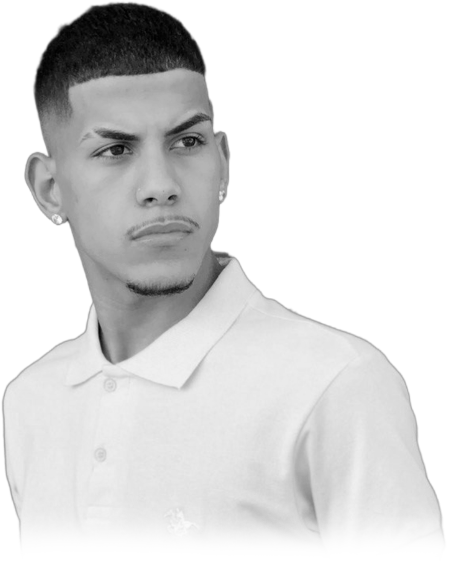
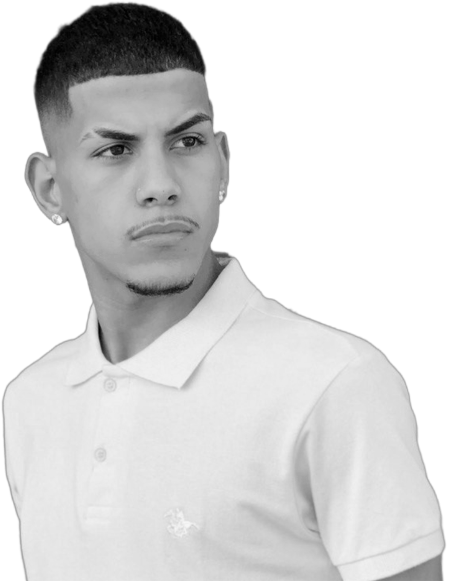
Modificado as imagens
Responsividade a cada imagem do projeto

Changed region(s): [[0.031, 0.8675, 0.9912, 1.0]]

diff --git a/estilos/large-screen.css b/estilos/large-screen.css
@@ -3,52 +3,48 @@
 @import url('https://fonts.googleapis.com/css2?family=Sometype+Mono:wght@400;500;700&display=swap');
 @import url('https://fonts.googleapis.com/css2?family=MuseoModerno:wght@300;400;500;700&display=swap');
 
-:root{ 
+:root {
     --font01: 'MuseoModerno', sans-serif;
     --font02: 'Sometype Mono', monospace;
-
+    
     --bg01: #191919;
     --bg02: #3f3f3f;
+    --bg03: #424242;
+    --bg04: #6200EE;
+
+    --tt01: #F5F5F5;
+    --tt02: #9E9E9E;
+    --tt03: #6200EE;
 }
 
-*{
+* {
     padding: 0px;
     margin: 0px;
     font-size: 62.5%;
 }
-a{
+
+a {
     text-decoration: none;
 }
 
-body{
+body {
     background-color: var(--bg01);
     color: white;
     font-family: system-ui, -apple-system, BlinkMacSystemFont, 'Segoe UI', Roboto, Oxygen, Ubuntu, Cantarell, 'Open Sans', 'Helvetica Neue', sans-serif
 }
-header{ 
+
+header {
     font-size: 4rem;
 }
 
-header > h1.about{
-    font-family: var(--font02);
-    font-weight: bold;
-    font-size: 3.3rem;
-
-    padding: 0rem 2rem;
-}
-header > h2.about{
-    padding: 0rem 2rem;
+header#headerDiv {
+    position: fixed;
 }
 
 nav {
+    font-size: 2.7rem;
+    padding: .5rem .5rem 3rem .5rem;
     text-align: end;
-    font-size: 2.5rem;
-    padding: .5rem .5rem 2rem .5rem;
-
-    position: relative;
-    top: 1rem;
-    left: 0;
-    right: 0;
 }
 
 nav>a {
@@ -61,24 +57,25 @@ nav>a {
     padding: .9rem 2rem;
     margin-right: 5rem;
     border-radius: 2rem;
+}
 
+div#principalContainer{
+    position: absolute;
+    top: 10rem;
+}
+
+div#bgPhoto01 {
+    display: none;
 }
 
 main#groupBox {
-    
     position: relative;
-
-    left: 3rem;
-    top: 1rem;
 
     max-width: 30rem;
     max-height: 30rem;
 
-    padding: 1.5rem;
-
     font-size: 4rem;
 }
-
 
 main>fieldset {
     border-radius: 1.5rem;
@@ -110,18 +107,14 @@ main>fieldset>section>p {
 
 }
 
-section p {
-    text-align: justify;
-}
+div#bgPhoto02{
 
+    background: var(--bg01) url(../imagens/profile-preto-branco-fundo.png) no-repeat;
+    background-attachment: fixed;
+    background-position: top right 15%;
+    
+    height: 100vh;
+    width: 100%;
 
-footer {
-    background-color: #ebebeb;
-    color: black;
-
-    padding: .6rem;
-
-    font-size: 1.5rem;
-
-
+    transition: background-image 0.3s ease;
 }

diff --git a/estilos/tablet.css b/estilos/tablet.css
@@ -62,30 +62,17 @@ nav>a {
 
 div#principalContainer{
     position: relative;
-    top: 2rem;
-}
-
-div#bgPhoto01{
-    background: url(../imagens/profile-preto-branco300px.png)center no-repeat;
-    background-attachment: local;
-    background-position: top right;
-    
-    height: 100vh;
-    width: 100%;
-
-    transition: width .8s,height .8s;
-    transition-timing-function: ease-in;
 }
 
 main#groupBox {
     position: absolute;
     top: 5.5rem;
-
+    
     max-width: 30rem;
     max-height: 30rem;
-
+    
     font-size: 4rem;
-
+    
     transition: width .4s,height .4s;
     transition-timing-function: ease;
 }
@@ -93,9 +80,9 @@ main#groupBox {
 main>fieldset {
     border-radius: 1.5rem;
     border: 2px solid #757575;
-
+    
     padding: 1rem 1.9rem 1rem .7rem;
-
+    
     text-align: left;
 }
 
@@ -110,16 +97,27 @@ main>fieldset>h2 {
     font-family: var(--font01);
     text-decoration: underline;
     text-align: left;
-
+    
     color: var(--tt03);
 }
 
 main>fieldset>section>p {
     font-size: 1.8rem;
     font-weight: 600;
-
+    
 }
 
 section p {
     text-align: justify;
+}
+
+div#bgPhoto02{
+    background: url(../imagens/profile-preto-branco300px.png) no-repeat;
+    background-attachment: local;
+    background-position: center right 15%;
+    
+    height: 80vh;
+    width: 100%;
+
+    transition: background-image 0.3s ease;
 }

diff --git a/estilos/style.css b/estilos/style.css
@@ -93,29 +93,15 @@ div#principalContainer{
     top: 10rem;
 }
 
-div#bgPhoto01 {
-    display: flex;
-    margin: auto;
-
-    background: url(../imagens/profile-cinza-preto200px.png) no-repeat center;
-
-    height: 20rem;
-}
-
 main#groupBox {
-    
-    position: relative;
-
-    left: 1.5rem;
-    top: 1rem;
+    display: flex;
+    align-content: center;
 
     max-width: 30rem;
     max-height: 30rem;
 
-    padding: 1.5rem;
-
     font-size: 4rem;
-
+    
     box-sizing: content-box;
 }
 
@@ -123,9 +109,9 @@ main#groupBox {
 main>fieldset {
     border-radius: 1.5rem;
     border: 2px solid #757575;
-
-    padding: 1rem 1.9rem 1rem .5rem;
-
+    
+    padding: 0rem 2rem 2rem 1rem;
+    
     text-align: left;
 }
 
@@ -140,7 +126,7 @@ main>fieldset>h2 {
     font-family: var(--font01);
     text-decoration: underline;
     text-align: left;
-
+    
     color: var(--tt03);
 }
 
@@ -152,5 +138,15 @@ main>fieldset>section>p {
 
 section p {
     text-align: justify;
+}
+
+div#bgPhoto02 {
+    display: flex;
+    margin: auto;
+
+    background: url(../imagens/profile-cinza-preto200px.png) no-repeat center center;
+
+    height: 20rem;
+    transition: background-image 0.3s ease;
 }
 

diff --git a/index.html b/index.html
@@ -10,7 +10,7 @@
     <link rel="stylesheet" href="estilos/style.css" media="all">
     <link rel="stylesheet" href="estilos/tablet.css" media="screen and (min-width: 555px) and (max-width: 798px)">
     <link rel="stylesheet" href="estilos/desktop.css" media=" screen and (min-width: 798px) and (max-width: 1200px)">
-    <link rel="stylesheet" href="estilos/tv.css" media="screen and (min-width = 1200px)">
+    <link rel="stylesheet" href="estilos/large-screen.css" media="screen and (min-width: 1201px)">
 
     <!--JavaScript-->
 
@@ -28,9 +28,6 @@
     </div>
     
     <div id="principalContainer">
-    <div id="bgPhoto01">
-        <img alt="">
-    </div>
 
         <main id="groupBox">
             <fieldset>

diff --git a/estilos/desktop.css b/estilos/desktop.css
@@ -109,14 +109,13 @@ main>fieldset>section>p {
 
 div#bgPhoto02{
 
-    background: var(--bg01) url(../imagens/profile-preto-branco.png) center no-repeat;
+    background: var(--bg01) url(../imagens/profile-cinza-branco-fundo.png) no-repeat;
     background-attachment: fixed;
-    background-position: top right;
+    background-position: top right 15%;
     
     height: 100vh;
     width: 100%;
 
-    transition: width .8s,height .8s;
-    transition-timing-function: ease-in;
-
+    transition: background-image 0.3s ease;
 }
+
